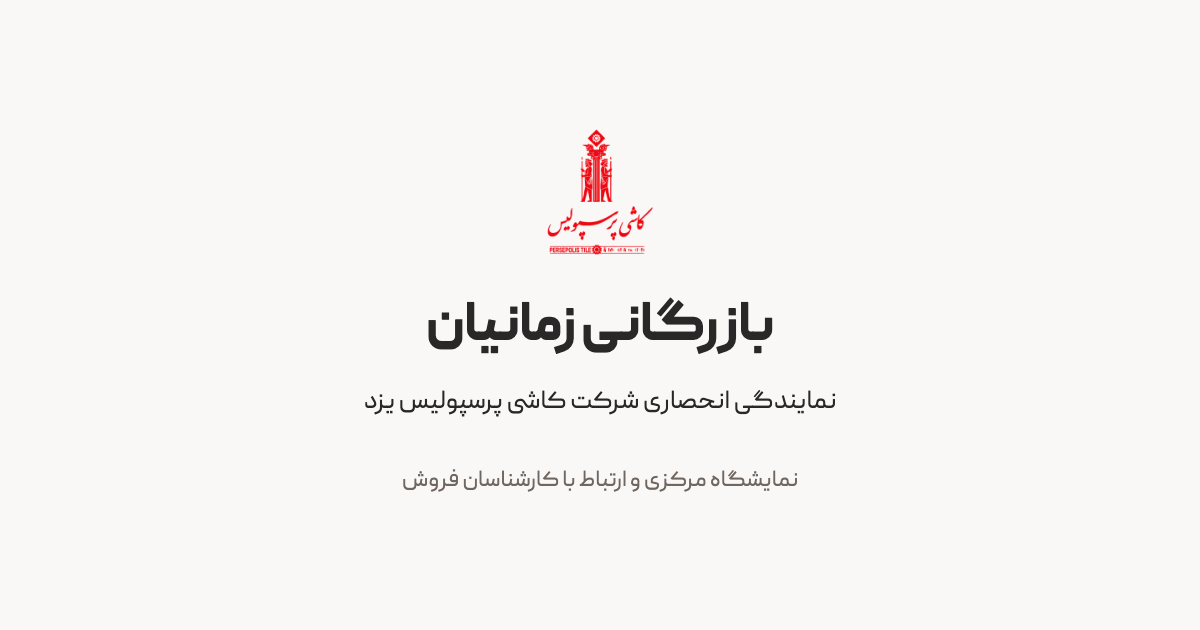
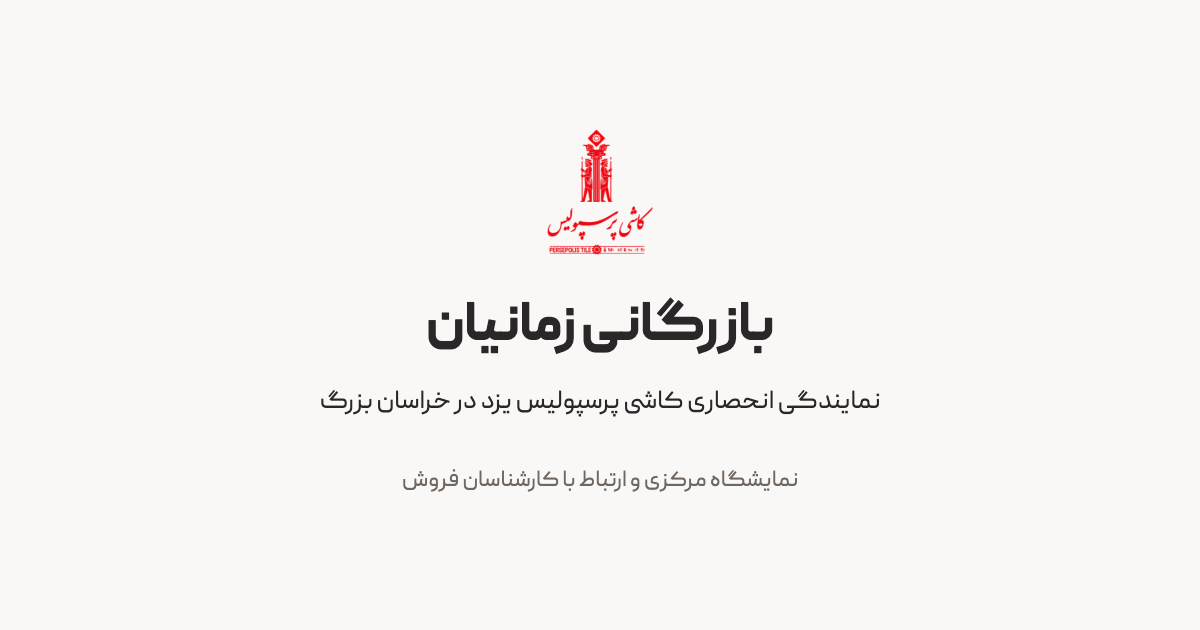
feat: update business contacts and add Achaemenid ornament

Changed region(s): [[0.2775, 0.6032, 0.74, 0.6635], [0.4933, 0.2714, 0.5242, 0.3016]]

diff --git a/app/page.tsx b/app/page.tsx
@@ -6,13 +6,14 @@ import { business, directionsUrl } from "@/config/business";
 import { ContactDrawer } from "./_contact-drawer";
 import { BorderBeam } from "./_border-beam";
 
-function ShowroomPhones() {
+function PhoneLines({ phones, label }: { phones: readonly { display: string; uri: string }[]; label: string }) {
+  const ordinals = ["اول", "دوم", "سوم", "چهارم"];
   return (
     <ul className="contact-list">
-      {business.showroom.phones.map((phone, index) => (
+      {phones.map((phone, index) => (
         <li key={phone.uri}>
           <a className="contact-row" href={`tel:${phone.uri}`}>
-            <span className="contact-name">خط {index === 0 ? "اول" : "دوم"} فروشگاه</span>
+            <span className="contact-name">خط {ordinals[index] ?? index + 1} {label}</span>
             <span className="phone-number"><bdi dir="ltr">{phone.display}</bdi><PhoneCallingIcon size={20} aria-hidden="true" /></span>
           </a>
         </li>
@@ -28,7 +29,7 @@ function SalesContacts() {
         <li key={person.id}>
           <a className="contact-row" href={`tel:${person.phone.uri}`}>
             <span className="contact-name">{person.name}</span>
-            <span className="contact-role">{person.role}{person.roleIsSample && " (نمونه)"}</span>
+            <span className="contact-role">{person.role}</span>
             <span className="phone-number"><bdi dir="ltr">{person.phone.display}</bdi><PhoneCallingIcon size={20} aria-hidden="true" /></span>
           </a>
         </li>
@@ -70,19 +71,20 @@ export default function Home() {
           </ContactDrawer>
           <ContactDrawer label="دفتر مرکزی" title="دفتر مرکزی" pattern={<Image src="/assets/maps/office-map.svg" alt="" fill sizes="(max-width: 544px) 100vw, 544px" unoptimized />} icon={<MapPointIcon size={24} />}>
             <LocationDetails location={business.office} />
+            <div className="location-phones"><PhoneLines phones={business.office.phones} label="دفتر" /></div>
             <MapCredit />
           </ContactDrawer>
           <ContactDrawer label="فروشگاه مرکزی" title="فروشگاه مرکزی" pattern={<Image src="/assets/maps/store-map.svg" alt="" fill sizes="(max-width: 544px) 100vw, 544px" unoptimized />} icon={<MapPointIcon size={24} />}>
             <LocationDetails location={business.showroom} />
-            <div className="location-phones"><ShowroomPhones /></div>
+            <div className="location-phones"><PhoneLines phones={business.showroom.phones} label="فروشگاه" /></div>
             <MapCredit />
           </ContactDrawer>
         </nav>
         <noscript>
           <section className="no-script-contacts" aria-label="اطلاعات تماس">
             <h2>ارتباط با ما</h2><SalesContacts />
-            <h2>دفتر مرکزی</h2><LocationDetails location={business.office} />
-            <h2>فروشگاه مرکزی</h2><LocationDetails location={business.showroom} /><ShowroomPhones />
+            <h2>دفتر مرکزی</h2><LocationDetails location={business.office} /><PhoneLines phones={business.office.phones} label="دفتر" />
+            <h2>فروشگاه مرکزی</h2><LocationDetails location={business.showroom} /><PhoneLines phones={business.showroom.phones} label="فروشگاه" />
           </section>
         </noscript>
       </div>

diff --git a/config/business.ts b/config/business.ts
@@ -1,12 +1,18 @@
 export const business = {
   name: "بازرگانی زمانیان",
   brand: "کاشی پرسپولیس",
-  representation: "نمایندگی انحصاری شرکت کاشی پرسپولیس یزد",
+  representation: "نمایندگی انحصاری کاشی پرسپولیس یزد در خراسان بزرگ",
   office: {
     name: "دفتر مرکزی",
     mapsUrl: "https://maps.app.goo.gl/NkTdPy8zxmNhoL2o8",
     coordinates: [36.3165102, 59.5851922],
     address: "چهارراه ابوطالب، پاساژ جامجم، طبقه ۵، واحد ۵۰۱",
+    phones: [
+      { display: "۰۵۱ ۳۷۱۲ ۳۲۱۲", uri: "+985137123212" },
+      { display: "۰۵۱ ۳۷۱۲ ۳۲۱۳", uri: "+985137123213" },
+      { display: "۰۵۱ ۳۷۱۲ ۳۲۱۴", uri: "+985137123214" },
+      { display: "۰۵۱ ۳۷۱۲ ۳۲۱۵", uri: "+985137123215" },
+    ],
   },
   showroom: {
     name: "فروشگاه مرکزی",
@@ -20,8 +26,10 @@ export const business = {
     ],
   },
   sales: [
-    { id: "azma", role: "کارشناس فروش و مشاوره محصول", roleIsSample: true, name: "سرکار خانم آزما", contactName: "خانم آزما", phone: { display: "۰۹۱۵ ۶۲۰ ۱۱۶۲", uri: "+989156201162" } },
-    { id: "mehraban", role: "کارشناس فروش و پیگیری سفارش", roleIsSample: true, name: "آقای مهدی مهربان", contactName: "مهدی مهربان", phone: { display: "۰۹۱۰ ۱۱۵ ۴۲۲۰", uri: "+989101154220" } },
+    { id: "azma", role: "کارشناس فروش", name: "سرکار خانم آزما", contactName: "خانم آزما", phone: { display: "۰۹۱۵ ۶۲۰ ۱۱۶۲", uri: "+989156201162" } },
+    { id: "mehraban", role: "کارشناس فروش", name: "جناب آقای مهندسی مهربان", contactName: "مهندسی مهربان", phone: { display: "۰۹۱۰ ۱۱۵ ۴۲۲۰", uri: "+989101154220" } },
+    { id: "shariatzadeh", role: "کارشناس فروش", name: "جناب آقای مهندسی شریعت زاده", contactName: "مهندسی شریعت زاده", phone: { display: "۰۹۱۵ ۰۰۲ ۶۴۰۰", uri: "+989150026400" } },
+    { id: "ghadimi", role: "کارشناس فروش", name: "جناب آقای مهندسی قدیمی", contactName: "مهندسی قدیمی", phone: { display: "۰۹۱۵ ۰۲۹ ۷۴۰۴", uri: "+989150297404" } },
   ],
 } as const;
 

diff --git a/app/globals.css b/app/globals.css
@@ -462,3 +462,22 @@ bdi {
   text-decoration: underline;
   text-underline-offset: 2px;
 }
+
+/* Faint, fixed ornament at RTL bottom-start; contained beneath all page UI. */
+body { position: relative; isolation: isolate; }
+body::before {
+  content: "";
+  position: fixed;
+  inset-inline-start: -1.5rem;
+  inset-block-end: -2rem;
+  width: clamp(13rem, 32vw, 30rem);
+  aspect-ratio: 157 / 206;
+  background: url("/assets/achaemenid-pattern.webp") center / contain no-repeat;
+  opacity: 0.045;
+  mask-image: linear-gradient(to top, #000 20%, #0009 55%, transparent 100%);
+  pointer-events: none;
+  z-index: -1;
+}
+@media print {
+  body::before { display: none; }
+}

diff --git a/docs/qa-checklist.md b/docs/qa-checklist.md
@@ -115,3 +115,19 @@ Evidence docs/qa/beam-four/: exactly4 gradient squares; relative phase differenc
 ## 2026-11-17 — GHCR workflow
 
 Infrastructure-only change; no UI behavior modified. Workflow validated with actionlint 1.7.12, no diagnostics. TypeScript and production build passed; lint passed with zero errors and 93 existing vendored-skill warnings. Existing metadataBase warning remains without SITE_URL. Docker daemon unavailable and repository has no remote: actual image build/run/push, registry access, cache hits and GitHub runtime/cost remain unverified. No new visual/keyboard/reduced-motion pass was needed for this change. Next feedback reporting pass: no new qualifying candidate; no submission command needed. See ci-ghcr.md for setup and tradeoffs.
+
+## 2026-11-17 — Office lines and contact titles
+
+Evidence docs/qa/office-phones/: four office tel links match +985137123212/13/14/15; actual full URI values recorded in checks.json. Contact titles match family-name-only request with existing surnames; given name absent. At320px/200% text, page and drawer body have no horizontal overflow; all4links remain in scrollable body. Office/contact screenshot captures use completed transitions and loaded fonts. TypeScript, production build and diff check passed; lint zero errors with93existing skill warnings. No new framework feedback candidate.
+
+### اصلاح نهایی عنوان افراد
+نامهای دقیق «سرکار خانم آزما» و «جناب آقای مهندسی مهربان» با عنوان مشترک «کارشناس فروش» در DOM پنل واقعی بررسی شد؛ دیگر برچسب نمونه وجود ندارد. TypeScript و build موفق؛ lint صفر خطا و۹۳هشدار قبلی. این اصلاح متنی است؛ مرور تصویری/دستگاه فیزیکی مجدد انجام نشد. candidate جدید برای Next feedback وجود ندارد.
+
+### عبارت جدید نمایندگی و چهار کارشناس
+عبارت دقیق جدید در DOM کارت و تصویر OG/alt هماهنگ شد. چهار نام/عنوان/شماره در پنل واقعی بررسی و screenshot مشاهده شد؛ تماسهای جدید +989150026400 و+989150297404 صحیحاند. تصویر1200x630 با فونت/لوگوی موجود بازتولید و مشاهده شد؛ unfurl عمومی تکرار نشد. خروجی static vCard پنج رکورد دارد (مجموعه+چهار کارشناس) و هر دو شماره جدید تأیید شدند. TypeScript و build و diff-check موفق؛ lint صفر خطا با۹۳هشدار قبلی. آزمون دستگاه واقعی انجام نشد.
+
+## 2026-11-17 — Soft Achaemenid ornament
+
+Original p11 downloaded from user URL and preserved in docs/reference. RGBA alpha0..20/255 verified; visible browser reference inspected. Native imagegen reconstructed transparent1095x1436 motif; delivery WebP163KB, no original-logo change. Provenance and SHA256 in docs/design/achaemenid-pattern.json. Native generation retained; conversion was delivery encoding only.
+
+Evidence docs/qa/achaemenid-pattern/: image decodes;320/390/1440 page widths match viewport; pseudo-element fixed at RTL start/right, opacity0.045, pointer-events:none, z-index:-1 in isolated body; top mask fades. Final390/1440 screenshots inspected. Store Drawer opens and dismisses with Escape. No new motion; decoration hidden when printing. TypeScript, lint (0errors,93existing warnings), clean production build and whitespace checks passed. Final production CSS verified to reference existing WebP, not stale PNG. Known build-cache behavior worked around without duplicate Next feedback report; no new qualifying candidate. Physical device/public deployment not verified.

diff --git a/docs/skills/skill-execution-log.md b/docs/skills/skill-execution-log.md
@@ -157,3 +157,18 @@ User rejected the SVG approximation. Re-read official registry source and craft/
 ## 2026-11-17 — GHCR build/publish workflow
 
 Technical CI/container change, with no UI/React or design-system changes. No design skill activated; visual/redesign gates are not applicable. Read installed Next deployment/static-export documentation and official Docker/GitHub Actions sources; inspected local StoryFrame and Persian Part Shop workflows. Implemented one publish job, path filtering, cancellation, GHA layer cache, and explicit Docker builder inputs. actionlint 1.7.12, tsc, lint and build passed (lint retains 93 existing warnings). No Docker daemon or git remote, so actual image publication, cache timing and deployment remain unverified; no claim of independent design review or runtime image validation. Full details: docs/ci-ghcr.md.
+
+## 2026-11-17 — Office lines and surname-only contact titles
+
+Targeted content change using custom project/React guidance and current craft-floor; installed Next Server/Client guide read. Central config adds four explicitly confirmed office lines and updates male display/contact title without given name; existing female surname/title retained. Shared typed PhoneLines server component avoids duplicating store/office row markup; compact phone styles and no-script content reused. Dev browser verified exact4tel destinations, both titles/no given name, narrow320/200% text without horizontal overflow. Existing frame captures repeated after450ms transition completion. TypeScript/build passed; lint0errors/93existing warnings. No new Next feedback candidate or formal design critique claimed.
+
+### Contact copy correction
+Applied user's exact surname/title correction and shared confirmed sales role; removed obsolete sample flag. Reused project context and React guidance, consulted installed Next Server/Client docs. Verified live drawer DOM and required checks; no layout/design overhaul or new critique claimed.
+
+## 2026-11-17 — Territory wording and two sales contacts
+
+Applied confirmed user content to centralized business data, preserving surname-only honorifics and shared sales role. Added two real phone destinations. Custom project context and previously read React guidance reused; official installed metadata docs and og-image-design read for synchronizing existing preview. Regenerated OG with existing code-native HTML/font/logo renderer and inspected1200x630 PNG; no new visual identity or public unfurl claim. Live drawer DOM verified4roles/4tel links and exact representation; completed-transition screenshot inspected. Metadata/vCard derive content from config. Checks/results recorded in QA; no new qualifying Next feedback candidate.
+
+## 2026-11-17 — Soft Achaemenid bottom-start ornament
+
+Read imagegen skill and native instructions; used the native imagegen edit with original p11 PNG and a browser-rendered alpha-amplified inspection reference. The original157x206 PNG has alpha0..20 and was inspected before editing; original bytes preserved. Generated1095x1436 transparent reconstruction copied locally; original native generation retained in generated_images. cwebp encoded delivery asset without resizing or redesign. Applied brand/custom context and Impeccable craft-floor; installed Next images docs consulted. Fixed CSS pseudo-element is decorative, noninteractive and behind UI; no new React/client component. Inspected390/1440 screenshots; measured320/390/1440 nooverflow and stacking; Drawer open/Escape still works. No independent formal critique or claim of official approval of reconstructed art; QA and provenance recorded.

diff --git a/docs/content.md b/docs/content.md
@@ -5,7 +5,7 @@
 | فیلد | متن مصوب منبع / مقصد |
 |---|---|
 | مجموعه | بازرگانی زمانیان |
-| رابطهٔ برند | نمایندگی انحصاری شرکت کاشی پرسپولیس یزد |
+| رابطهٔ برند | نمایندگی انحصاری کاشی پرسپولیس یزد در خراسان بزرگ |
 | برند لوگو | کاشی پرسپولیس |
 | محل | نمایشگاه مرکزی |
 | نشانی | میدان شهید فهمیده به سمت میدان معراج، بین توس ۳۳ و ۳۳/۱، فروشگاه پرسپولیس |
@@ -32,3 +32,14 @@
 
 ## تصمیم فعال ۲۰۲۶-۱۱-۱۷ — سه دکمه و حرکت پیوسته
 Border Beam بنا بر اصلاح صریح کاربر بینهایت و خطی است؛ در reduced-motion خاموش میشود. ترتیب RTL دکمهها: ارتباط با ما، دفتر مرکزی، فروشگاه مرکزی. ارتباط با ما دو شمارهٔ واقعی کارشناسان را با سمتهای نمونهٔ مشخصشده نشان میدهد. دفتر: چهارراه ابوطالب، پاساژ جامجم، طبقه ۵، واحد ۵۰۱. فروشگاه: نشانی قبلی توس و دو خط ثابت تأییدشده. هر مکان لینک Directions با destination نشانی دارد؛ پین یا مختصات تأییدشده ادعا نمیشود. راهنمای رسمی: https://developers.google.com/maps/documentation/urls/get-started . دکمهٔ ذخیره از صفحه حذف شد؛ endpoint موجود vCard حفظ و سمت نمونه به آن منتقل نشد. این تصمیم قواعد قدیمی چهار دکمه و یک دور انیمیشن را supersede میکند.
+
+## اصلاح تماسها — ۲۰۲۶-۱۱-۱۷
+
+چهار خط مستقل دفتر مرکزی به تأیید کاربر: ۰۵۱۳۷۱۲۳۲۱۲، ۰۵۱۳۷۱۲۳۲۱۳، ۰۵۱۳۷۱۲۳۲۱۴، ۰۵۱۳۷۱۲۳۲۱۵. نمایش و tel هر شماره جداست؛ اینها داخلی تلفن نیستند. شمارههای فروشگاه تغییر نکردند. الگوی خطاب در ارتباط با ما با نام خانوادگی فعلی اعمال شد: «سرکار خانم آزما» و «جناب آقای مهندس مهربان»؛ نام کوچک حذف شد. contactName مرکزی نیز بدون نام کوچک است. شمارههای همراه قبلی حفظ شدند. چهار خط در پنل دفتر و fallback بدون JS قابل استفادهاند.
+
+
+اصلاح نهایی کاربر: نامها «سرکار خانم آزما» و «جناب آقای مهندسی مهربان»؛ عنوان شغلی هر دو «کارشناس فروش» است. سمتهای نمونه و برچسب نمونه حذف شدند. شمارههای تأییدشده حفظ شدند.
+
+## عبارت نمایندگی و کارشناسان جدید — اصلاح فعال
+
+متن دقیق تأییدشده: «نمایندگی انحصاری کاشی پرسپولیس یزد در خراسان بزرگ». عبارت قبلی در محصول جاری جایگزین شد. جناب آقای مهندسی شریعت زاده با ۰۹۱۵۰۰۲۶۴۰۰ و جناب آقای مهندسی قدیمی با ۰۹۱۵۰۲۹۷۴۰۴ به دو کارشناس فعلی اضافه شدند. هر چهار نفر «کارشناس فروش» هستند. config/business.ts منبع مشترک صفحه، metadata و vCard است؛ پیشنمایش تصویری و alt آن هم از متن جدید هماهنگ شدند.

diff --git a/docs/project-brief.md b/docs/project-brief.md
@@ -4,7 +4,7 @@
 مرجع دائمی و فارسی بازرگانی زمانیان برای معرفی نمایندگی، تماس با مجموعه/کارشناسان و پیدا کردن نمایشگاه مرکزی. تغییر کاربری صریح کاربر تمام الزامات نمایشگاه فراز ۳، تاریخ، ساعت، غرفه ۲۳۲ و دعوتنامه را از محصول فعال لغو میکند.
 
 ## محتوا و مخاطب
-متن و اشخاص طبق [محتوا](content.md). مخاطب فارسیزبان از موبایل یا دسکتاپ لینک را باز میکند و باید بدون ورود یا فرم به تماس درست برسد. عبارت «نمایندگی انحصاری شرکت کاشی پرسپولیس یزد» بدون افزودن محدودهٔ جغرافیایی نمایش داده میشود.
+متن و اشخاص طبق [محتوا](content.md). مخاطب فارسیزبان از موبایل یا دسکتاپ لینک را باز میکند و باید بدون ورود یا فرم به تماس درست برسد. عبارت «نمایندگی انحصاری کاشی پرسپولیس یزد در خراسان بزرگ» بدون افزودن محدودهٔ جغرافیایی نمایش داده میشود.
 
 ## خروجی این درخواست
 بازسازی کامل اسناد و یک نمونهٔ کد قابل اجرا؛ ظاهر فعلی پیشنهاد اولیه است. صفحهٔ `/`، اطلاعات متمرکز، فایل مخاطبان، metadata و تصویر اشتراکگذاری هماهنگ. هیچ انتشار، commit یا push در این درخواست انجام نمیشود.

diff --git a/AGENTS.md b/AGENTS.md
@@ -10,7 +10,7 @@ This block is written and re-added by `next dev` — verify at `node_modules/nex
 
 ## Project overview
 
-Persian RTL permanent online business card for بازرگانی زمانیان, with the supplied wording نمایندگی انحصاری شرکت کاشی پرسپولیس یزد. The user explicitly replaced the exhibition invitation on 2026-11-15; all event-specific obligations are superseded. Read `docs/business-card-analysis.md`, `docs/README.md`, `docs/project-brief.md`, `docs/content.md`, `docs/brand-guidelines.md`, `docs/design-system.md`, `docs/architecture.md`, `docs/implementation-plan.md`, and `docs/qa-checklist.md` before relevant work. Supplied content overrides image-inferred text. Update docs and decisions when behavior, design, or verification changes.
+Persian RTL permanent online business card for بازرگانی زمانیان, with the supplied wording نمایندگی انحصاری کاشی پرسپولیس یزد در خراسان بزرگ. The user explicitly replaced the exhibition invitation on 2026-11-15; all event-specific obligations are superseded. Read `docs/business-card-analysis.md`, `docs/README.md`, `docs/project-brief.md`, `docs/content.md`, `docs/brand-guidelines.md`, `docs/design-system.md`, `docs/architecture.md`, `docs/implementation-plan.md`, and `docs/qa-checklist.md` before relevant work. Supplied content overrides image-inferred text. Update docs and decisions when behavior, design, or verification changes.
 
 ## Skill activation
 

diff --git a/docs/design-system.md b/docs/design-system.md
@@ -47,3 +47,6 @@ Border Beam بنا بر اصلاح صریح کاربر بینهایت و خط
 
 ## اصلاح نهایی افکت — چهار پرتو Magic UI
 طبق اصلاح صریح کاربر، SVG سهپرتویی رد شد. چهار مربع گرادیانی واقعی، Motion، مسیر و ماسک لبه جایگزین آن شدند؛ دور۱۶ثانیه و فازهای۰/۲۵/۵۰/۷۵. مرجع فعال docs/border-beam.md است.
+
+## نقش تزئینی هخامنشی
+به درخواست کاربر، نقش p11 از سایت پرسپولیس دانلود و بهصورت دارایی شفاف بازسازی شد. فقط نقش پسزمینه است، نه لوگوی جایگزین. WebP محلی در body::before، پایینِ start منطقی (راست در RTL)، ثابت و زیر تمام UI قرار دارد؛ width:clamp(13rem,32vw,30rem)، opacity:0.045، محوشدن تدریجی بالایی و برش جزئی در لبهٔ پایین/راست. body با isolation:isolate از افتادن pseudo-element پشت بوم جلوگیری میکند. pointer-events:none؛ بدون animation/DOM محتوایی و پنهان در چاپ. اسناد منشأ: docs/design/achaemenid-pattern.json. لوگوی اصلی/کارت/دکمهها تغییر نکردند.

diff --git a/docs/brand-guidelines.md b/docs/brand-guidelines.md
@@ -1,6 +1,6 @@
 # هویت برند کارت ویزیت
 
-نام اصلی صفحه بازرگانی زمانیان است. لوگوی اصلی کاشی پرسپولیس و عبارت «نمایندگی انحصاری شرکت کاشی پرسپولیس یزد» رابطهٔ دو هویت را روشن میکنند. نام یا لوگوی مستقلِ جدیدی برای بازرگانی ساخته نمیشود.
+نام اصلی صفحه بازرگانی زمانیان است. لوگوی اصلی کاشی پرسپولیس و عبارت «نمایندگی انحصاری کاشی پرسپولیس یزد در خراسان بزرگ» رابطهٔ دو هویت را روشن میکنند. نام یا لوگوی مستقلِ جدیدی برای بازرگانی ساخته نمیشود.
 
 لوگوی کامل `public/assets/persepolis-logo.png` بدون بازطراحی، فیلتر، تغییر رنگ، کشیدگی یا برش استفاده میشود. نسبت منبع ۵۳۵ به ۶۳۲ حفظ میشود. کیفیت ریزنوشتههای منبع محدود است؛ وکتور رسمی موجود نیست. آیکن قدیمی سایت در این نمونه حفظ شده و به معنای تأیید نسخهٔ مستقل نشان نیست.
 
